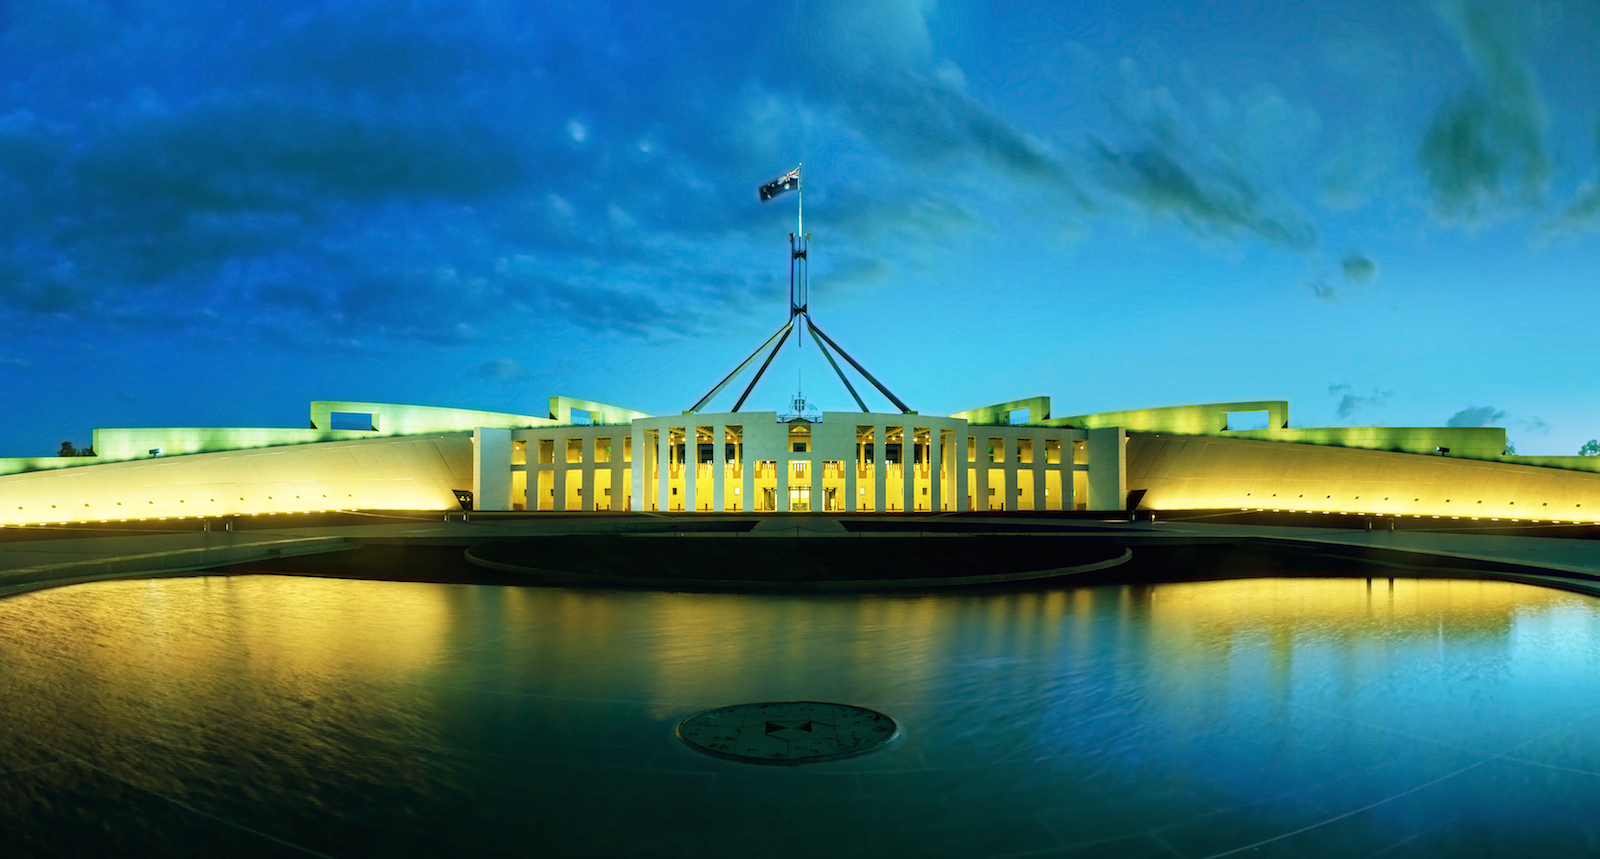
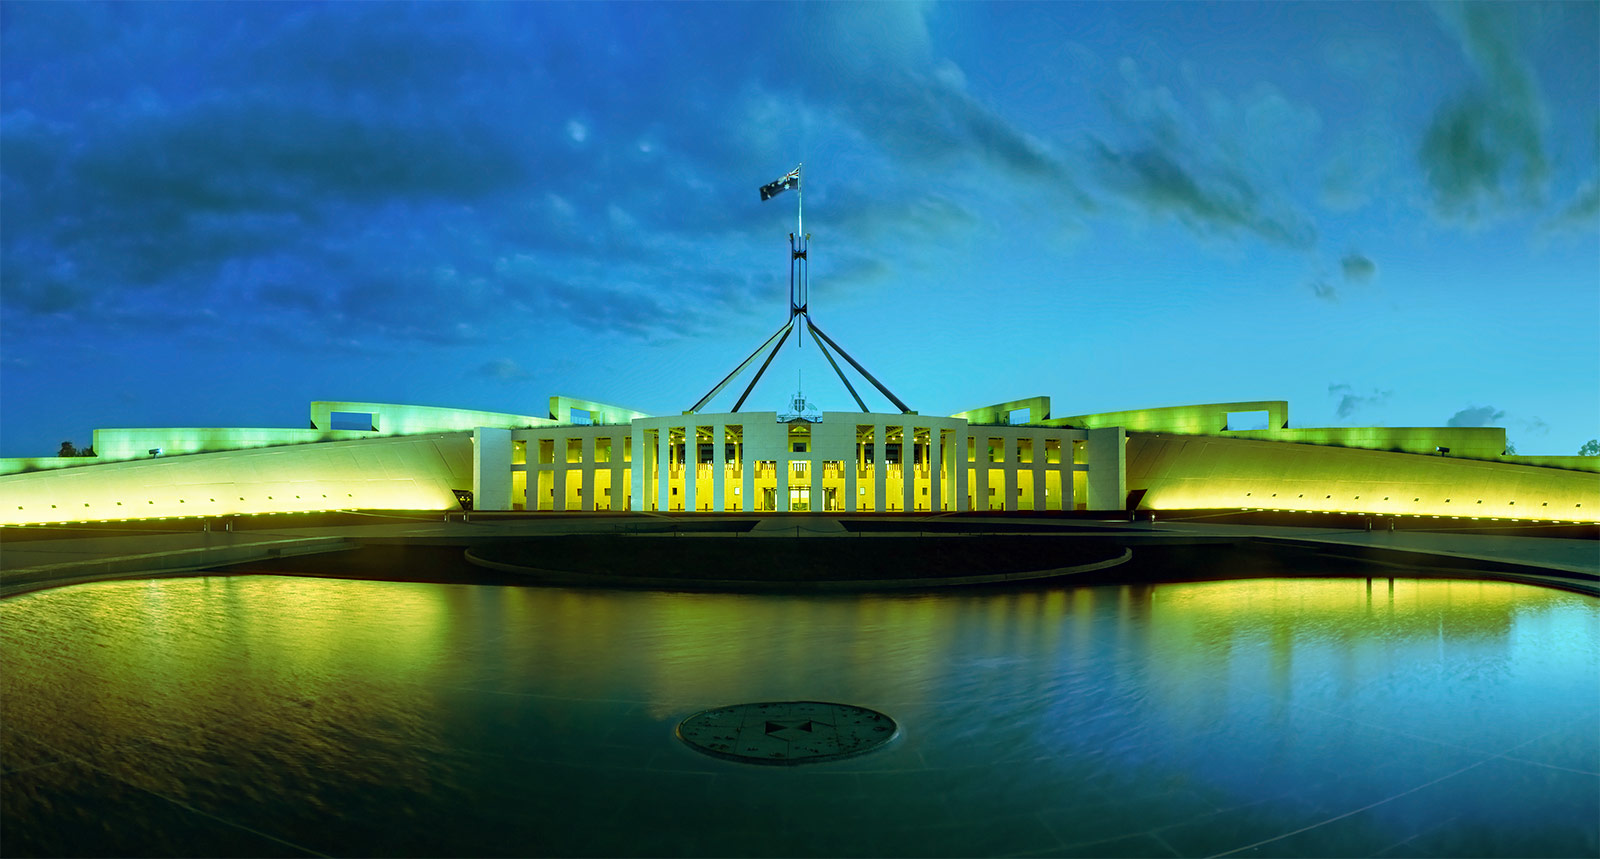
Added image size handling for retina

diff --git a/public/css/openletter.css b/public/css/openletter.css
@@ -7,8 +7,20 @@ body {
   padding: 40px 15px;
   text-align: center;
   height: 860px;
-  background-position:center; 
+  background-position:center top; 
   background-image: url("../images/parliament.jpg");
+}
+
+/*CSS for serving the retina image to devices with a high "device-pixel-ratio":*/
+@media only screen and (-moz-min-device-pixel-ratio: 1.5), only screen and (-o-min-device-pixel-ratio: 3/2), only screen and (-webkit-min-device-pixel-ratio: 1.5), only screen and (min-devicepixel-ratio: 1.5), only screen and (min-resolution: 1.5dppx) {
+    .banner{
+        background-image: url("../images/parliament@2x.jpg");
+/*        background-size: 1000px;*/
+        height: 535px;
+    }
+    .byline {
+/*      padding-top: 140px;*/
+    }
 }
 
 .address {

diff --git a/public/index.html b/public/index.html
@@ -56,7 +56,7 @@
           public opinion. It is their responsibility to understand and promote the interests
           of their constituency.<br> We, the people, can make this happen.</p>
  -->
-        <p class="lead dark-bg">Enter your postcode to get started</p>
+        <p class="lead dark-bg byline">Enter your postcode to get started</p>
 
           <div class="col-md-2 col-md-offset-5">
           <div class="form-group">

diff --git a/public/js/openletter.js b/public/js/openletter.js
@@ -75,6 +75,9 @@ function updateMP(pc) {
     var ministerName = [data.profile.title,data.profile.first_name,
       data.profile.last_name,data.honorific].join(" ");
     var ministerPreferred = data.profile.preferred_name;
+    
+    console.log(data.party);
+    
     var ministerParty = party[data.party];
     if(ministerPreferred == '') ministerPreferred = data.profile.first_name;
 
